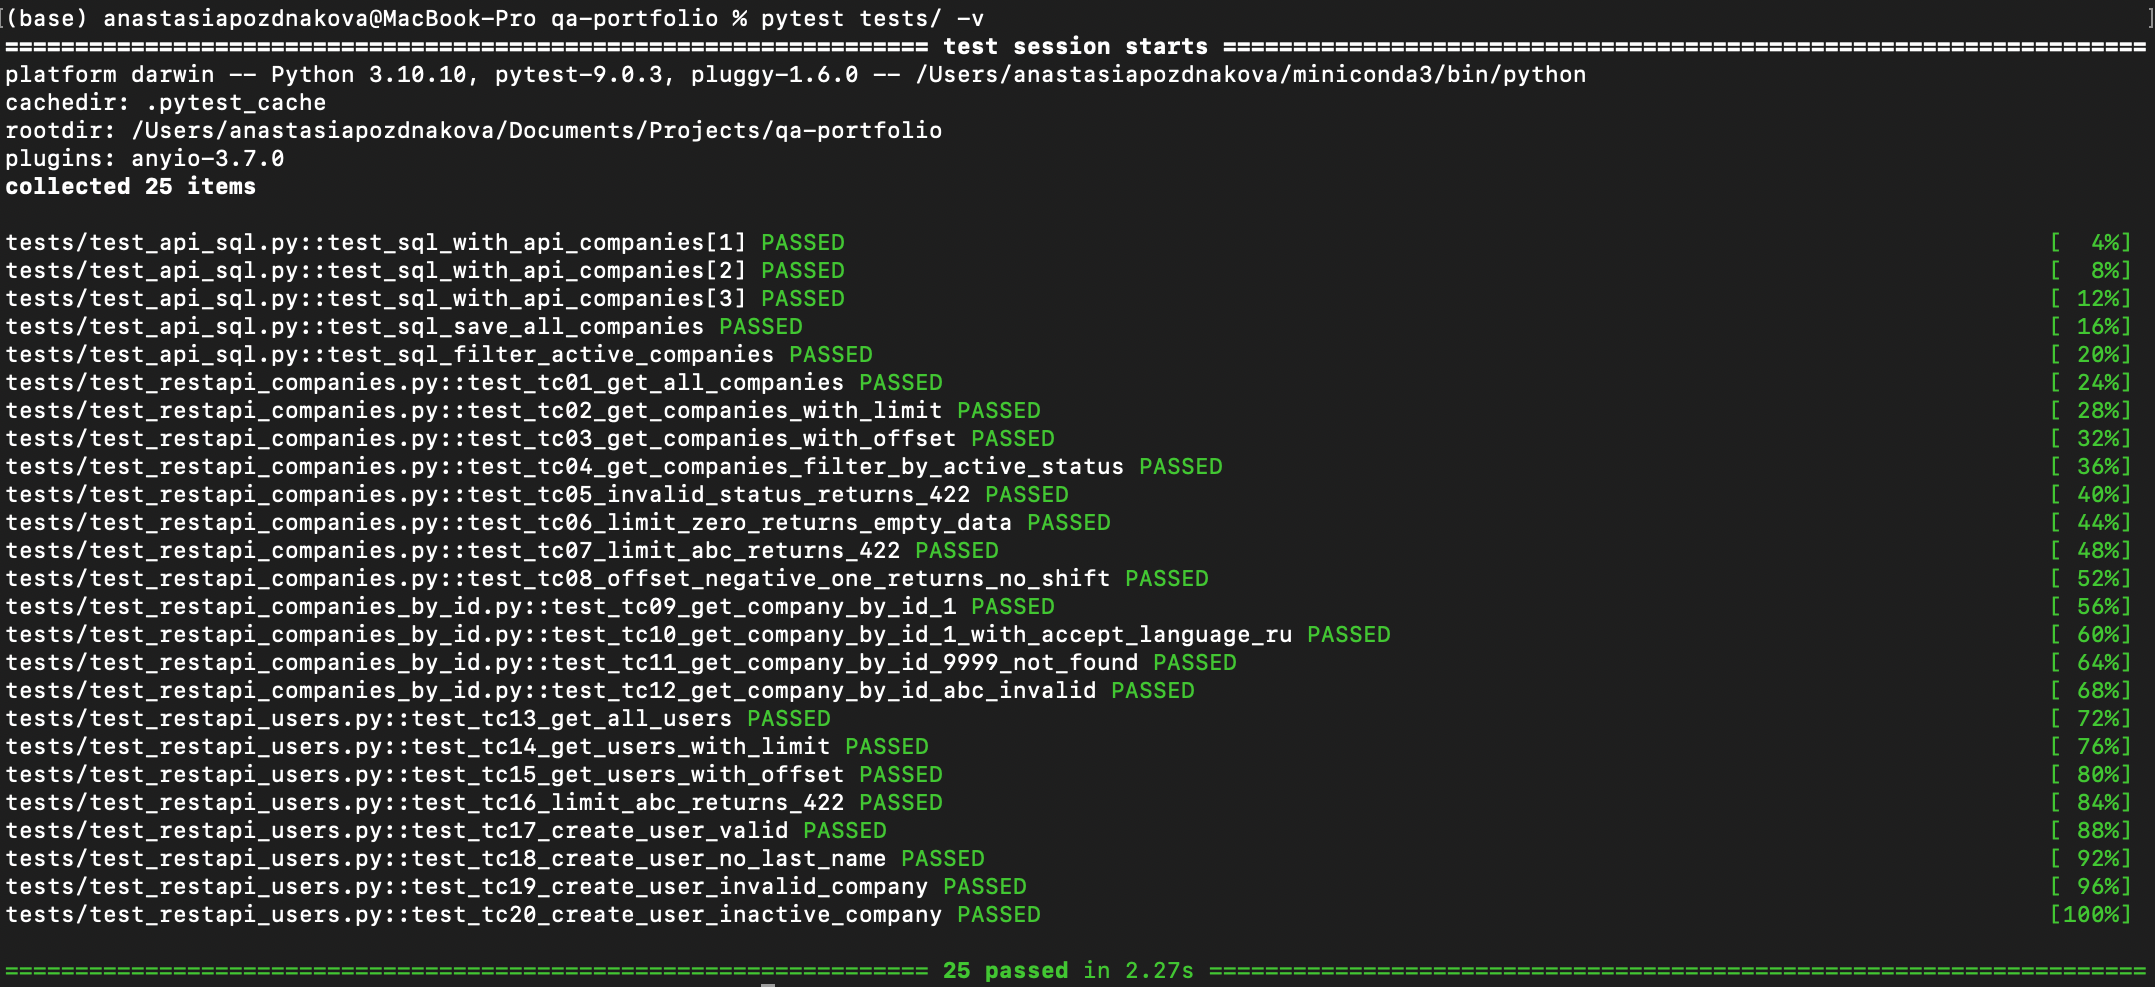
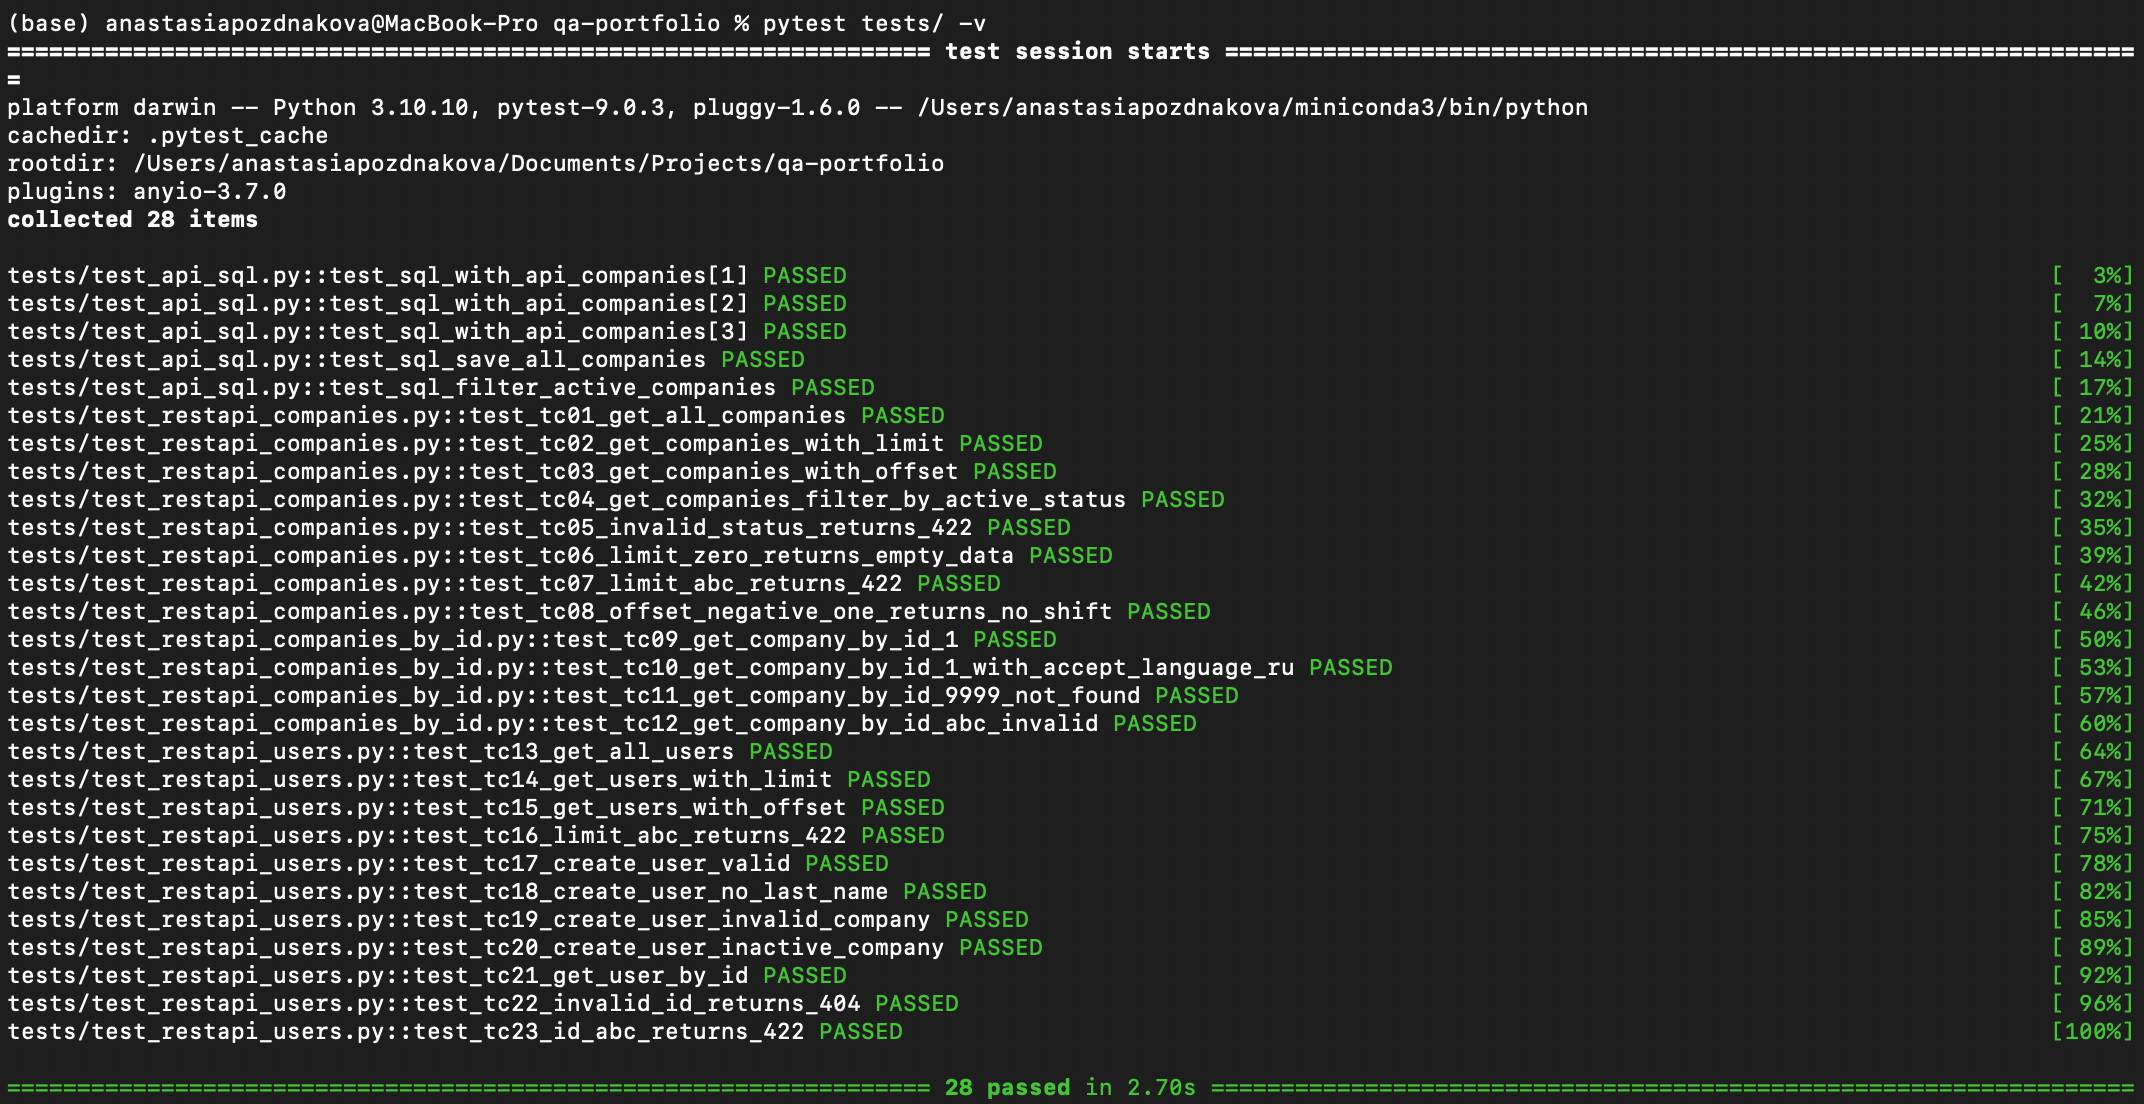
feat: add GET /users/{id} tests (TC-21 to TC-23)
- Add tests: get user by ID, non-existent user, invalid ID
- Update Postman collection with TC-21 to TC-23
- Update test cases documentation
- Update README with test coverage
- Update test results screenshot

diff --git a/tests/test_restapi_users.py b/tests/test_restapi_users.py
@@ -54,7 +54,7 @@ def create_user():
     assert response.status_code == 201, f"Ожидался 201, получен {response.status_code}"
     full_user = get_validated_json(response)
 
-    # Отдаём данные создания и результат
+    # Отдаём данные создания и результат (словарь)
     yield {"data": user_data, "response": full_user}
 
     # Очистка
@@ -245,7 +245,7 @@ def test_tc18_create_user_no_last_name():
     validate_content_type(response)
     data = get_validated_json(response)
 
-    # Проверка структуры
+    # Проверка структуры ошибки
     assert "detail" in data, "В ответе отсутствует поле detail"
     assert isinstance(data["detail"], list), "detail не массив"
     assert len(data["detail"]) > 0, "Массив detail пуст"
@@ -372,3 +372,117 @@ def test_tc20_create_user_inactive_company():
     assert (
         "active" in reason.lower()
     ), f"reason не содержит упоминание о валидном статусе ACTIVE"
+
+
+def test_tc21_get_user_by_id(create_user):
+    """TC-21: GET-запрос на получение юзера по ID"""
+
+    # Берём данные из фикстуры по созданию юзера
+    created_user_id = create_user["response"]["user_id"]
+    created_last_name = create_user["response"]["last_name"]
+
+    # Отправляем GET-запрос с ID из фикстуры
+    try:
+        response = requests.get(f"{USERS_ENDPOINT}/{created_user_id}", timeout=TIMEOUT)
+    except requests.exceptions.Timeout:
+        assert False, f"Запрос к {USERS_ENDPOINT} превысил таймаут {TIMEOUT} сек."
+
+    # Проверка статуса, заголовка + парсинг JSON
+    assert response.status_code == 200, (
+        f"Запрос к {USERS_ENDPOINT} вернул статус {response.status_code}. "
+        f"Ожидался 200"
+    )
+    validate_content_type(response)
+    fetched_user = get_validated_json(response)
+
+    # Проверка обязательных полей
+    validate_response_structure(fetched_user, constants.USER_REQUIRED_FIELDS)
+
+    fetched_user_id = fetched_user["user_id"]
+    fetched_last_name = fetched_user["last_name"]
+
+    assert isinstance(fetched_user_id, int), "ID должен быть числом"
+    assert isinstance(fetched_last_name, str), "last_name должен быть строкой"
+
+    # Сравниваем
+    assert (
+        created_user_id == fetched_user_id
+    ), f"user_id={created_user_id} из url не совпал с user_id={fetched_user_id} из ответа"
+    assert (
+        created_last_name == fetched_last_name
+    ), f"last_name={created_last_name} из фикстуры не совпал с last_name={fetched_last_name} из ответа"
+
+
+def test_tc22_invalid_id_returns_404():
+    """TC-22: Получение юзера по несуществующему ID возвращает статус 404"""
+
+    # Подготовка данных
+    user_id = 99999
+
+    # Отправка GET-запроса
+    try:
+        response = requests.get(f"{USERS_ENDPOINT}/{user_id}", timeout=TIMEOUT)
+    except requests.exceptions.Timeout:
+        assert False, f"Запрос к {USERS_ENDPOINT} превысил таймаут {TIMEOUT} сек."
+
+    # Проверка статуса, заголовка + парсинг JSON
+    assert response.status_code == 404, (
+        f"Запрос к {USERS_ENDPOINT}/{user_id} (несуществуюший ID) вернул статус {response.status_code}. "
+        f"Ожидался 404"
+    )
+    validate_content_type(response)
+    data = get_validated_json(response)
+
+    # Проверка структуры ошибки
+    assert "detail" in data, "В ответе отсутствует поле detail"
+    detail = data["detail"]
+    assert isinstance(detail, dict), "detail должен быть объектом (dict)"
+
+    assert "reason" in detail, "В detail отсутствует поле reason"
+    reason = detail["reason"]
+    assert isinstance(reason, str), "reason должен быть строкой"
+    assert len(reason) > 0, "reason не должна быть пустой"
+    assert str(user_id) in reason, f"reason не содержит упоминание об id={user_id}"
+
+
+def test_tc23_id_abc_returns_422():
+    """TC-23: Получение юзера на невалидный ID возвращает статус 422"""
+
+    # Подготовка данных
+    user_id = "abc"
+
+    # Отправка GET-запроса
+    try:
+        response = requests.get(f"{USERS_ENDPOINT}/{user_id}", timeout=TIMEOUT)
+    except requests.exceptions.Timeout:
+        assert False, f"Запрос к {USERS_ENDPOINT} превысил таймаут {TIMEOUT} сек."
+
+    # Проверка статуса, заголовка + парсинг JSON
+    assert response.status_code == 422, (
+        f"Запрос к {USERS_ENDPOINT}/{user_id} (невалидный ID) вернул статус {response.status_code}. "
+        f"Ожидался 422"
+    )
+    validate_content_type(response)
+    data = get_validated_json(response)
+
+    # Проверка структуры ошибки
+    assert "detail" in data, "В ответе отсутствует поле detail"
+    assert isinstance(data["detail"], list), "detail не массив"
+    assert len(data["detail"]) > 0, "Массив detail пуст"
+
+    # Берем первую ошибку
+    first_error = data["detail"][0]
+
+    # Проверка обязательных полей
+    for field in ["type", "loc", "msg"]:
+        assert field in first_error, f"Нет поля {field} в ответе"
+
+    assert isinstance(first_error["loc"], list), "loc не массив"
+    assert isinstance(first_error["msg"], str), "msg не строка"
+
+    assert (
+        "user_id" in first_error["loc"]
+    ), "loc не содержит упоминание о месте ошибки – поле user_id"
+    assert (
+        "integer" in first_error["msg"]
+    ), "msg не содержит упоминание о валидном типе – integer"

diff --git a/test-cases/USERS.md b/test-cases/USERS.md
@@ -27,21 +27,41 @@
 ## POST /api/users
 
 ### TC-17: Создание пользователя с валидными данными
-- **Тело запроса:** `{"first_name": "Sydney", "last_name": "Sweeney", "company_id": 3`
+- **Тело запроса:** `{"first_name": "string", "last_name": "string", "company_id": 0}`
 - **Ожидаемый статус:** 201
 - **Обязательные поля в ответе:** `user_id`, `last_name`
+- **Дополнительно:** `last_name` в ответе совпадает с данными созданного пользователя
 
 ### TC-18: Создание без обязательного поля last_name
-- **Тело запроса:** `{"first_name": "Sydney", "company_id": 3}`
+- **Тело запроса:** `{"first_name": "string", "company_id": 0}`
 - **Ожидаемый статус:** 422
 - **Ожидаемый результат:** `detail` массив с ошибкой
 
 ### TC-19: Создание с несуществующей компанией
-- **Тело запроса:** `{"first_name": "Sydney", "last_name": "Sweeney", "company_id": 851987}`
+- **Тело запроса:** `{"first_name": "string", "last_name": "string", "company_id": <id_невалидной_компании>}`
 - **Ожидаемый статус:** 404
 - **Ожидаемый результат:** `detail.reason`
 
 ### TC-20: Создание с неактивной компанией
-- **Тело запроса:** `{"first_name": "Sydney", "last_name": "Sweeney", "company_id": <id_неактивной_компании>}`
+- **Тело запроса:** `{"first_name": "string", "last_name": "string", "company_id": <id_неактивной_компании>}`
 - **Ожидаемый статус:** 400
 - **Ожидаемый результат:** `detail.reason`
+
+
+## GET /api/users/{user_id}
+
+## TC-21: Получение юзера по ID
+- **Параметры:** `user_id={id}` (integer)
+- **Ожидаемый статус:** 200
+- **Обязательные поля в ответе:** `user_id` (integer), `last_name` (string)
+- **Дополнительно:** `last_name` в ответе совпадает с данными созданного пользователя
+
+## TC-22: Получение юзера по несуществующему ID
+- **Параметры:** `user_id={<несуществующий_id_юзера>}` (integer)
+- **Ожидаемый статус:** 404
+- **Обязательные поля в ответе:** `detail.reason`
+
+## TC-23: Получение юзера по невалидному ID
+- **Параметры:** `user_id=abc` (string)
+- **Ожидаемый статус:** 422
+- **Обязательные поля в ответе:** `detail` массив с ошибкой

diff --git a/README.md b/README.md
@@ -144,6 +144,14 @@ BASE_URL = https://restapi.tech/api
 | TC-19 | На несуществующий `company_id` | 404 | ✅ готов |
 | TC-20 | На невалидный `company_id` | 400 | ✅ готов |
 
+### GET /api/users/{id}
+
+| TC | Проверка | Ожидаемый статус | Статус |
+|----|----------|------------------|--------|
+| TC-21 | GET-запрос на получение юзера по ID| 200 | ✅ готов |
+| TC-22 | На несуществующий `user_id=9999` | 404 | ✅ готов |
+| TC-23 | На невалидный `user_id=abc` | 422 | ✅ готов |
+
 ---
 
 ### 🔜 В планах
@@ -183,4 +191,4 @@ https://github.com/Anastasia-Pozdnyakova/qa-portfolio
 
 ---
 
-📫 **Контакты:** GitHub [Anastasia-Pozdnyakova](https://github.com/Anastasia-Pozdnyakova) · Telegram [@poznast](https://t.me/@poznast) · Email poznast59@ya.ru
+📫 **Контакты:** GitHub [Anastasia-Pozdnyakova](https://github.com/Anastasia-Pozdnyakova) · Telegram [@nastyapoze](https://t.me/@nastyapoze) · Email poznast59@ya.ru
